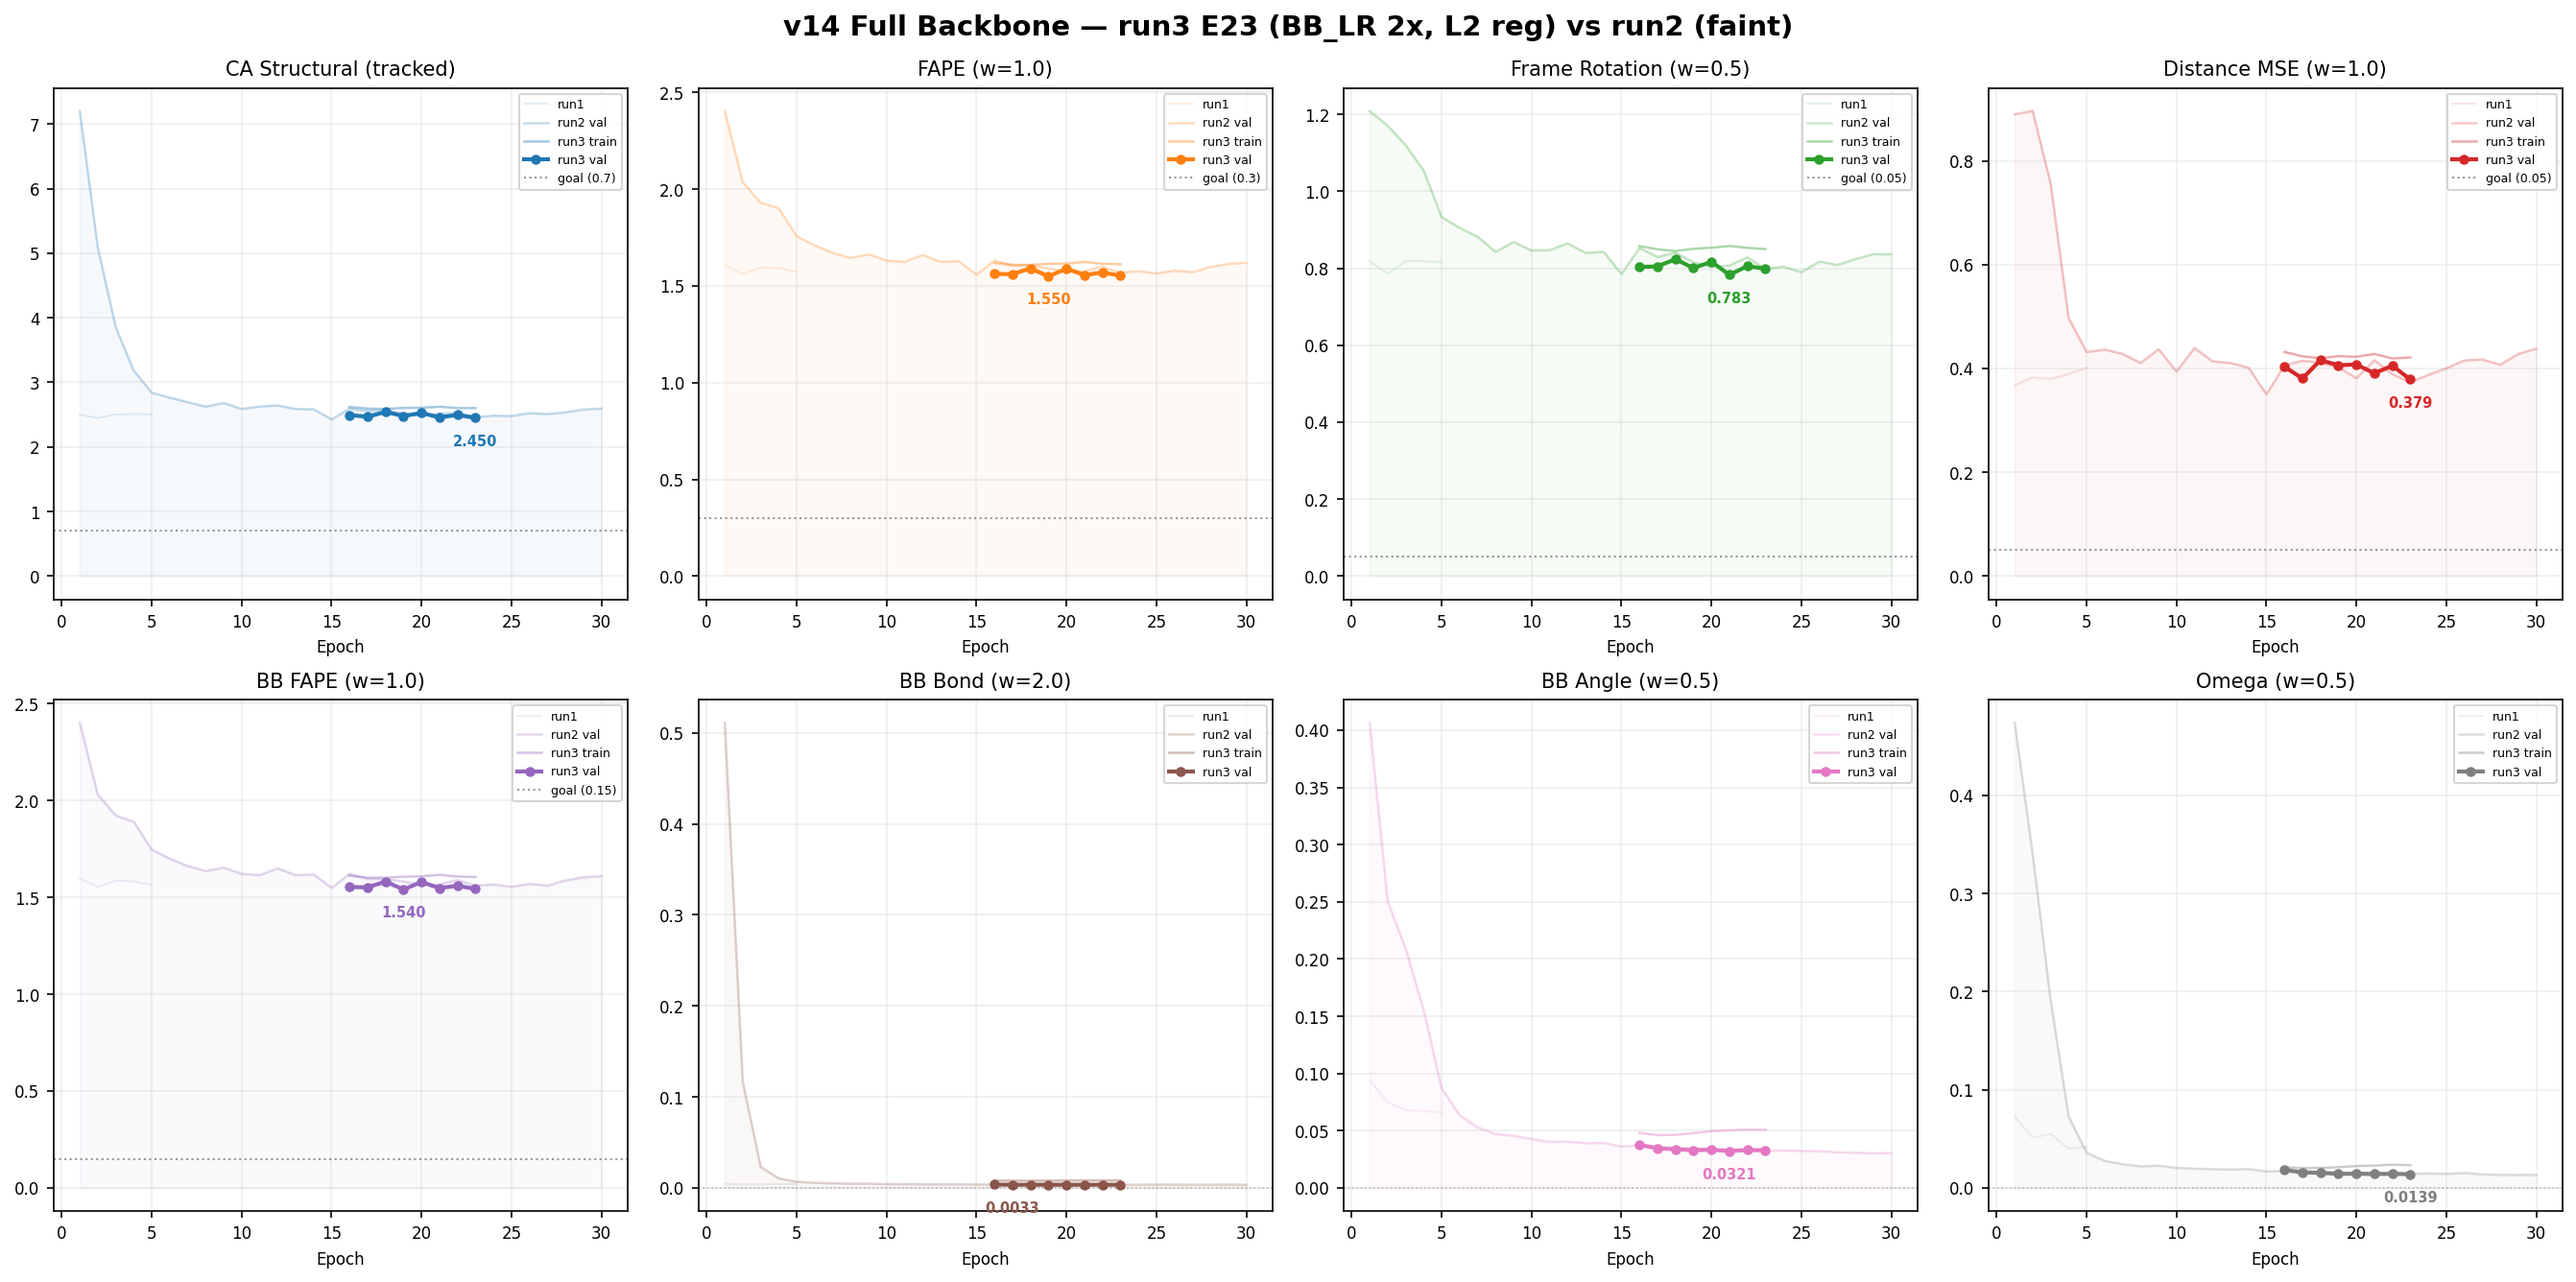
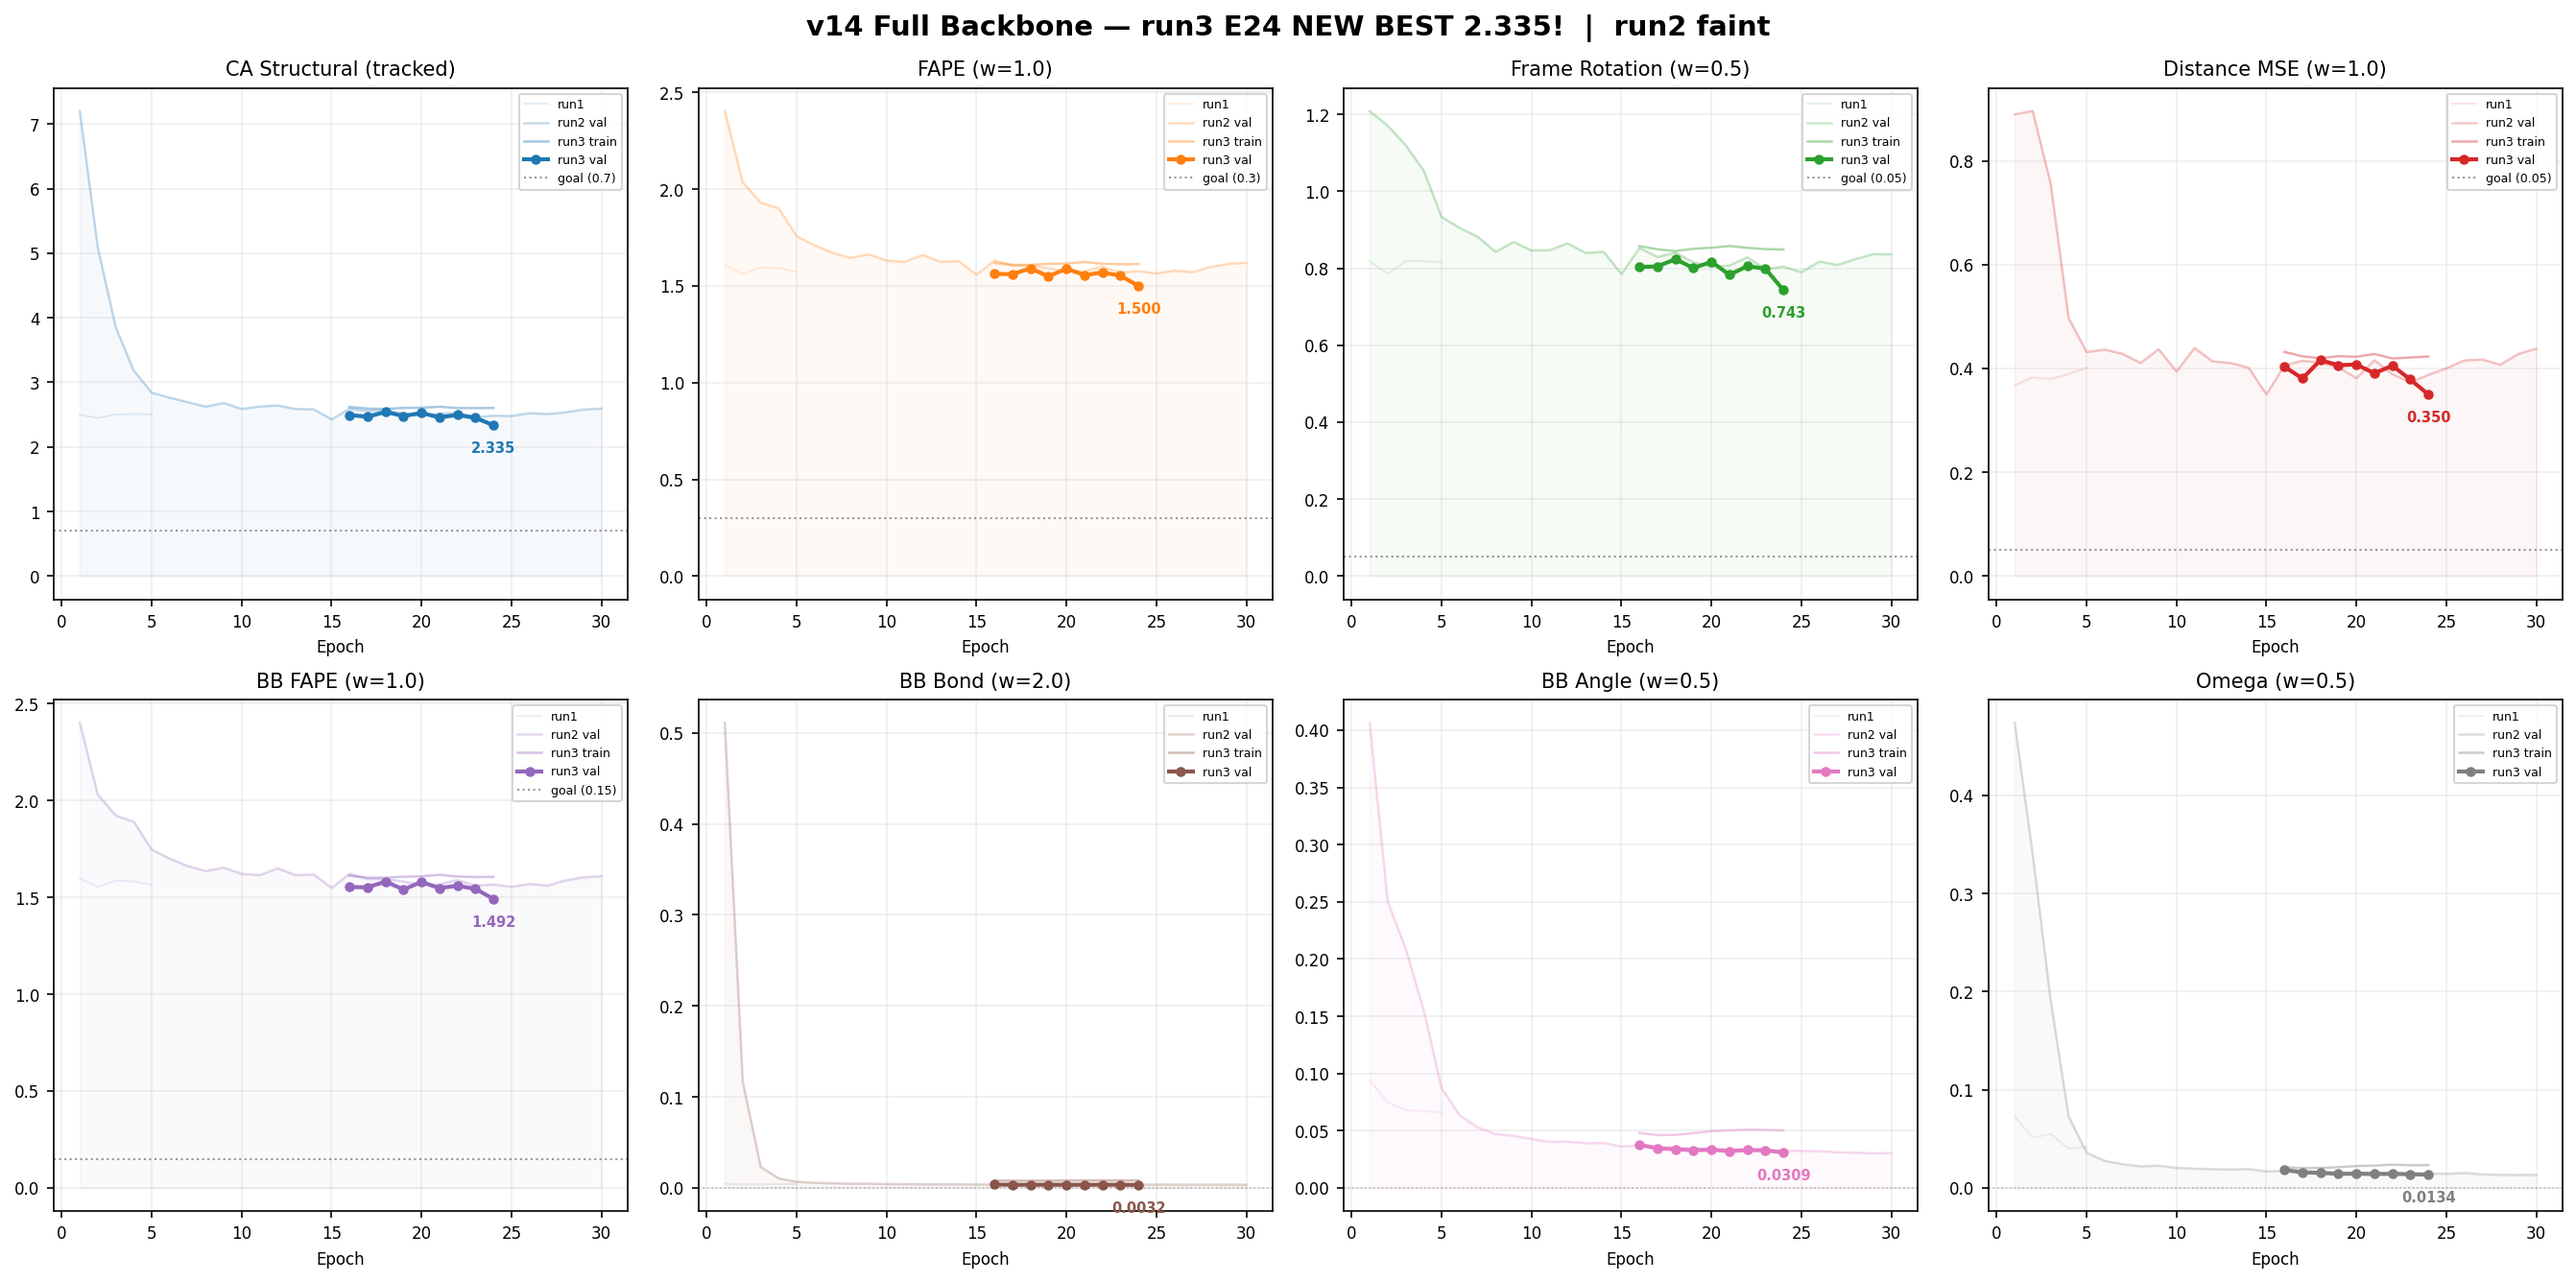
v14 run3 E24: NEW BEST structural 2.335! Broke through 2.425 barrier
Massive improvement — structural dropped from 2.450 to 2.335 in one
epoch. FAPE 1.500 (first time below 1.5), frame_rot 0.743. Patience
reset to 0/15. The BB_LR reduction + L2 offset penalty worked.

diff --git a/minifold.html b/minifold.html
@@ -194,7 +194,7 @@
       Full architecture history, training tables, loss functions, and analysis for the protein backbone diffusion model.
     </p>
     <p id="last-updated" style="color: var(--text-secondary); font-size: 13px; margin-bottom: 16px; font-style: italic;">
-      Last updated: Mar 13, 2026 at 10:30 PM PST
+      Last updated: Mar 14, 2026 at 12:45 AM PST
     </p>
 
     <div class="mf-tabs">
@@ -655,6 +655,7 @@
             <tr><td>21</td><td>4.043</td><td>2.425</td><td>1.556</td><td>0.783</td><td>0.391</td><td>1.547</td><td>0.003</td><td>0.014</td><td>&mdash;</td><td><span class="tag tag-stale">pat 6/15</span></td></tr>
             <tr><td>22</td><td>4.096</td><td>2.425</td><td>1.570</td><td>0.805</td><td>0.405</td><td>1.560</td><td>0.003</td><td>0.014</td><td>&mdash;</td><td><span class="tag tag-stale">pat 7/15</span></td></tr>
             <tr><td>23</td><td>4.033</td><td>2.425</td><td>1.553</td><td>0.799</td><td>0.379</td><td>1.543</td><td>0.003</td><td>0.014</td><td>&mdash;</td><td><span class="tag tag-stale">pat 8/15</span></td></tr>
+            <tr><td><strong>24</strong></td><td><strong>3.865</strong></td><td style="color: #2ca02c;"><strong>2.335</strong></td><td>1.500</td><td>0.743</td><td>0.350</td><td>1.491</td><td>0.003</td><td>0.013</td><td>&mdash;</td><td><span class="tag tag-best">NEW BEST</span></td></tr>
           </tbody>
         </table>
       </div>
